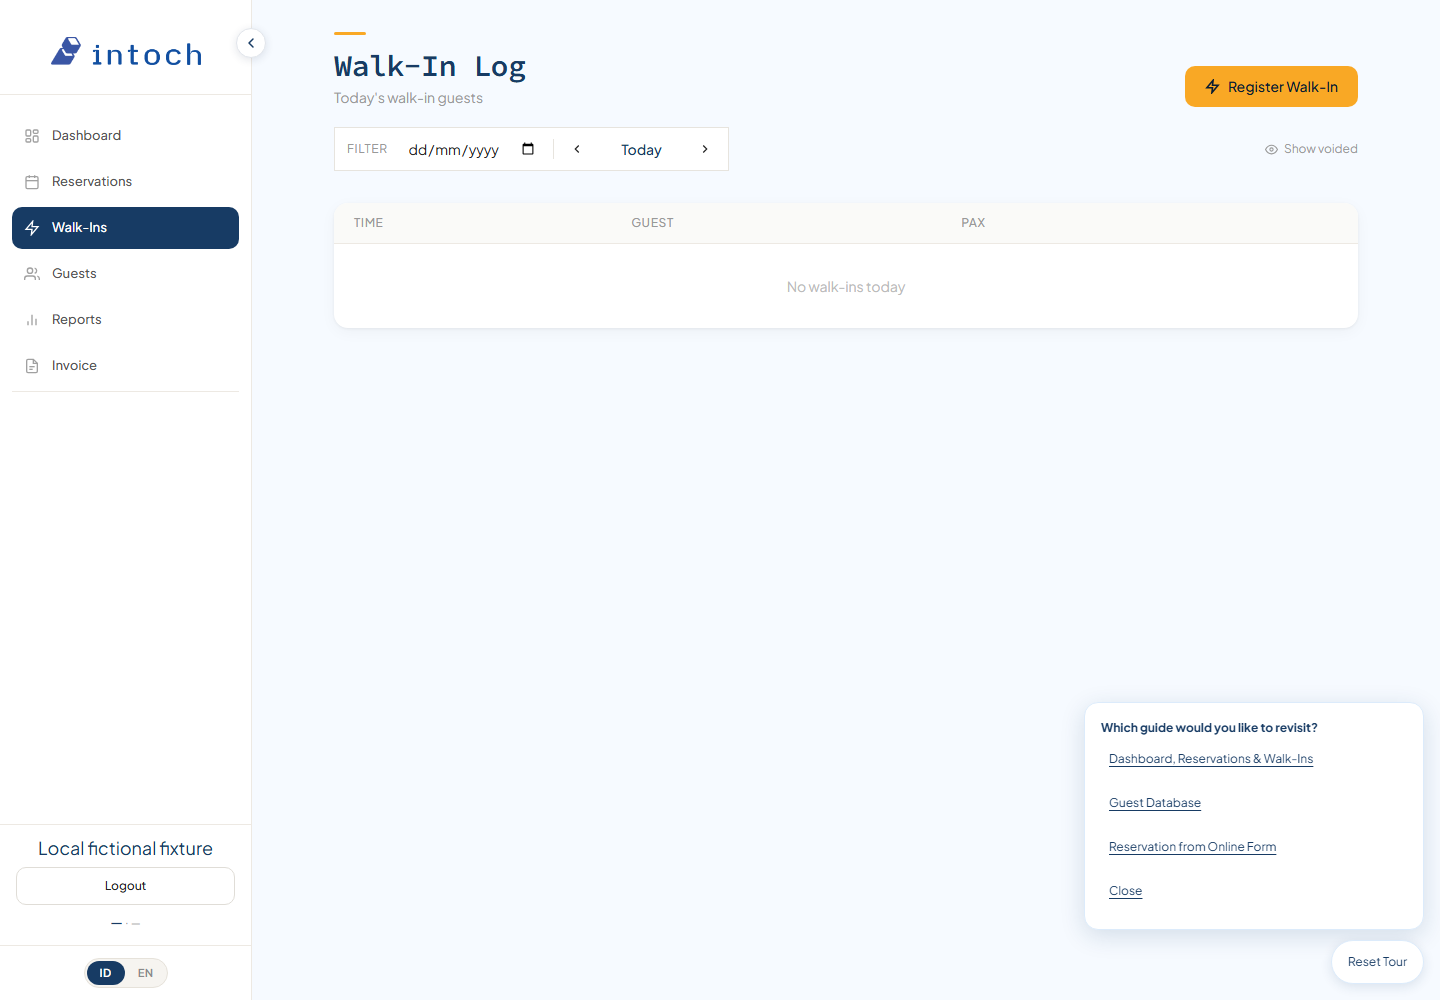
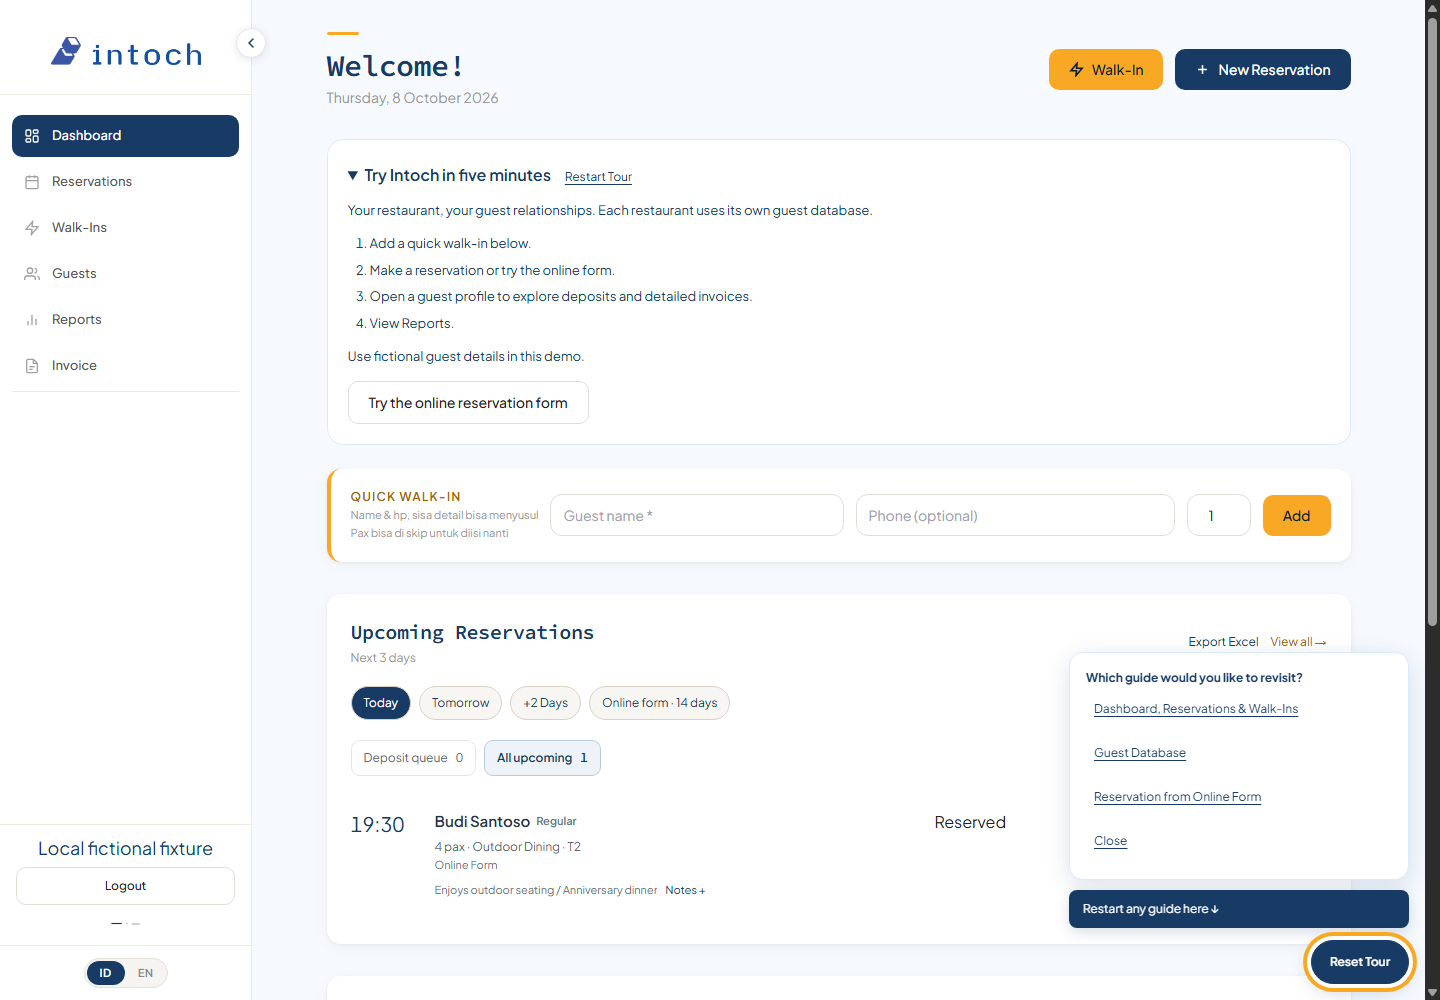
fix(demo): make tour reset noticeable after exit

diff --git a/css/demo-tour.css b/css/demo-tour.css
@@ -26,13 +26,13 @@
 .demo-tour-link { font: inherit; font-size: 12px; color: var(--brand-ink); background: transparent; border: 0; text-decoration: underline; text-underline-offset: 3px; cursor: pointer; padding: 8px 0; }
 #demo-tour-restart { margin-left: 14px; font-weight: 400; }
 #demo-tour-reset-menu { position: fixed; right: 16px; bottom: max(16px, env(safe-area-inset-bottom)); z-index: 102; font: 12px/1.5 "Plus Jakarta Sans", sans-serif; color: var(--brand-ink); }
-#demo-tour-reset { background: var(--demo-tour-surface, white); border: 1px solid var(--brand-tint); border-radius: 24px; padding: 10px 16px; min-height: 44px; box-shadow: 0 3px 12px color-mix(in srgb, var(--brand-ink) 12%, transparent); text-decoration: none; }
+#demo-tour-reset { background: var(--brand-ink); color: white; font-weight: 600; border: 1px solid var(--brand-ink); border-radius: 24px; padding: 10px 18px; min-height: 44px; box-shadow: 0 4px 14px color-mix(in srgb, var(--brand-ink) 22%, transparent); text-decoration: none; }
 #demo-tour-reset { display: block; margin-left: auto; }
 #demo-tour-sections { width: min(340px, calc(100vw - 32px)); max-height: calc(100dvh - 110px); overflow-y: auto; box-sizing: border-box; background: var(--demo-tour-surface, white); border: 1px solid var(--brand-tint); border-radius: 14px; padding: 16px; margin-bottom: 10px; box-shadow: 0 6px 24px color-mix(in srgb, var(--brand-ink) 15%, transparent); }
 #demo-tour-sections[hidden] { display: none; }
 .demo-tour-sections .demo-tour-link, #demo-tour-sections .demo-tour-link { display: block; text-align: left; width: 100%; min-height: 44px; padding: 8px; }
-#demo-tour-reset-hint:not(:empty) { display: block; background: var(--demo-tour-surface, white); border-radius: 8px; padding: 6px 10px; margin-bottom: 8px; }
-.demo-tour-reset-highlight #demo-tour-reset { box-shadow: 0 0 0 3px var(--brand-tint); border-color: var(--brand); }
+#demo-tour-reset-hint:not(:empty) { display: block; background: var(--brand-ink); color: white; border-radius: 8px; padding: 10px 14px; margin-bottom: 12px; box-shadow: 0 4px 14px color-mix(in srgb, var(--brand-ink) 18%, transparent); }
+.demo-tour-reset-highlight #demo-tour-reset { box-shadow: 0 0 0 4px var(--demo-tour-surface, white), 0 0 0 8px var(--accent, #ffad1f), 0 6px 20px color-mix(in srgb, var(--brand-ink) 25%, transparent); }
 body:has(#demo-tour-reset-menu) .demo-tour-dock { bottom: 130px; }
 body:has(#demo-public-reset) .demo-tour-dock { bottom: 100px; }
 .demo-public-reset { position: fixed; z-index: 102; bottom: 16px; right: 16px; max-width: calc(100vw - 32px); box-sizing: border-box; padding: 12px; background: var(--demo-tour-surface, white); border: 2px solid var(--brand-tint); border-radius: 12px; }

diff --git a/js/demo-tour.js b/js/demo-tour.js
@@ -261,11 +261,11 @@
   function nudge() {
     if (!valid() || !resetMenu) return;
     resetMenu.classList.add("demo-tour-reset-highlight");
-    resetMenu.querySelector("#demo-tour-reset-hint").textContent = text("Replay any section here", "Ulangi bagian mana pun di sini");
+    resetMenu.querySelector("#demo-tour-reset-hint").textContent = text("Restart any guide here ↓", "Ulangi panduan di sini ↓");
     clearTimeout(nudgeTimer); nudgeTimer = setTimeout(() => {
       resetMenu?.classList.remove("demo-tour-reset-highlight");
       if (resetMenu) resetMenu.querySelector("#demo-tour-reset-hint").textContent = "";
-    }, 6000);
+    }, 10000);
   }
   function dismiss() { exit("skipped"); nudge(); }
   function showDock(message) {
@@ -303,6 +303,7 @@
     disposeOverlay(); clearTimeout(readTimer); dock?.remove(); dock = null; pendingAction = null;
     if (document.body.classList.contains("sidebar-drawer-open") && typeof toggleSidebarDrawer === "function") toggleSidebarDrawer(false);
     restoreFocus();
+    if (status === "completed") nudge();
   }
   function welcome() {
     if (!valid() || run || offered || currentPage !== "dashboard" || !dashboardReady) return;

diff --git a/index.html b/index.html
@@ -22,7 +22,7 @@
     <link rel="stylesheet" href="css/owner-dashboard.css?v=4" />
     <link rel="stylesheet" href="css/demo.css?v=5" />
     <link rel="stylesheet" href="assets/vendor/driverjs/1.9.0/driver.css" />
-    <link rel="stylesheet" href="css/demo-tour.css?v=3" />
+    <link rel="stylesheet" href="css/demo-tour.css?v=4" />
     <script src="js/demo.js?v=5" defer></script>
     <style>
       :root {
@@ -9480,8 +9480,8 @@ Pembayaran downpayment dapat dilakukan melalui QRIS</textarea
     <script src="assets/vendor/driverjs/1.9.0/driver.js.iife.js"></script>
     <script src="js/demo-tour-environment.js?v=2"></script>
     <script src="js/demo-login.js?v=1"></script>
-    <script src="js/demo-tour.js?v=4"></script>
-    <script src="js/demo-booking-tour.js?v=2"></script>
+    <script src="js/demo-tour.js?v=5"></script>
+    <script src="js/demo-booking-tour.js?v=3"></script>
     <script src="js/app.js?v=65"></script>
     <script src="js/reservation-extras.js?v=3"></script>
     <script src="js/membership.js?v=7"></script>

diff --git a/reservation-created.template.html b/reservation-created.template.html
@@ -355,7 +355,7 @@
       }
     </style>
       <link rel="stylesheet" href="assets/vendor/driverjs/1.9.0/driver.css" />
-    <link rel="stylesheet" href="css/demo-tour.css?v=3" />
+    <link rel="stylesheet" href="css/demo-tour.css?v=4" />
   </head>
   <body>
     <div class="bg-photo"></div>
@@ -590,6 +590,6 @@
     </script>
     <script src="assets/vendor/driverjs/1.9.0/driver.js.iife.js"></script>
     <script src="js/demo-tour-environment.js?v=2"></script>
-    <script src="js/demo-booking-tour.js?v=2"></script>
+    <script src="js/demo-booking-tour.js?v=3"></script>
   </body>
 </html>

diff --git a/reserve.template.html b/reserve.template.html
@@ -916,7 +916,7 @@
       }
     </style>
       <link rel="stylesheet" href="assets/vendor/driverjs/1.9.0/driver.css" />
-    <link rel="stylesheet" href="css/demo-tour.css?v=3" />
+    <link rel="stylesheet" href="css/demo-tour.css?v=4" />
   </head>
   <body>
     <div id="reserve-loading">
@@ -2318,6 +2318,6 @@
     </script>
     <script src="assets/vendor/driverjs/1.9.0/driver.js.iife.js"></script>
     <script src="js/demo-tour-environment.js?v=2"></script>
-    <script src="js/demo-booking-tour.js?v=2"></script>
+    <script src="js/demo-booking-tour.js?v=3"></script>
   </body>
 </html>

diff --git a/js/demo-booking-tour.js b/js/demo-booking-tour.js
@@ -94,6 +94,7 @@
     if (state) { try { localStorage.setItem(`intoch:online-demo:v${VERSION}:${env().supabaseUrl}:${state.staffId}:seen`, status); } catch {} }
     dispose(); dock?.remove(); dock = null; state = null; save(); pending = false; booking = null;
     if (isStaff() && typeof toggleSidebarDrawer === "function") toggleSidebarDrawer(false);
+    if (status === "completed" && isStaff()) window.DemoTour?.nudge();
   }
   function dismiss() {
     const allowed = valid(); exit("skipped");

diff --git a/docs/DEMO_TOUR.md b/docs/DEMO_TOUR.md
@@ -186,7 +186,7 @@ existing 13 steps and manual fictional booking submission.
 Reset Tour stays visible at the lower right of verified demo staff pages. Select a
 section to restart its guide, without changing bookings, guests or other demo data.
 Skip, Close, Escape and Explore Independently briefly highlight this entry with
-“Replay any section here”; there is no forced redirect or automatic replay. Explore
+“Restart any guide here ↓”; there is no forced redirect or automatic replay. Explore
 preserves a Resume prompt. Back stays within the selected section. Older saved full
 walkthroughs retain their recovery path. On the public booking form, dismissal offers
 a verified-session-only reset link back to the dashboard; selecting a staff section
@@ -225,3 +225,9 @@ QA: `node tests/demo-login.test.js`; start `node scripts/demo-tour-preview.cjs`,
 screenshots at 1440/393/320px. The fixture uses existing login and verified-session
 handlers with fictional Auth replies. Live credential/session/active Staff checks
 also passed, followed by local sign-out; complete live browser boot is still pending.
+
+Reset Tour uses a navy background and white label. Close/Skip/Explore and Finish
+highlight it with a static amber ring and a ten-second directional hint. Reduced
+motion remains respected; the nudge does not animate or block independent use.
+Use `node scripts/check-demo-tour-browser.cjs --reset-only` for fast desktop/393/320
+Close-to-reset visual checks and current highlight/section-picker screenshots.

diff --git a/docs/CURRENT_STATE.md b/docs/CURRENT_STATE.md
@@ -1,5 +1,14 @@
 # Current state and operational handoff
 
+Reset Tour visibility polish (2026-10-08; local): persistent reset button now uses
+Intoch navy with white text. Non-continuing exits and guide completion show a strong
+static amber ring and “Restart any guide here ↓” hint for ten seconds. No extra
+blocking overlay, forced navigation or motion. CSS/controller cache versions bumped
+in staff and public source templates. Chrome Close/reset checks pass at 1440px,
+393px and 320px; inspected screenshots in docs/screens/demo-tour/*-reset-highlight.png.
+Targeted staff and online controller tests cover the existing exit/recovery flows.
+No push/deployment or database/Auth/config changes.
+
 Local repository cleanup (2026-10-08; `feature/demo-guided-tour`): user authorized
 keeping installed `.agents/` skills, `.impeccable/` visual-review screenshots and
 `skills-lock.json` local through `.gitignore`. Also excluded review artifacts and
